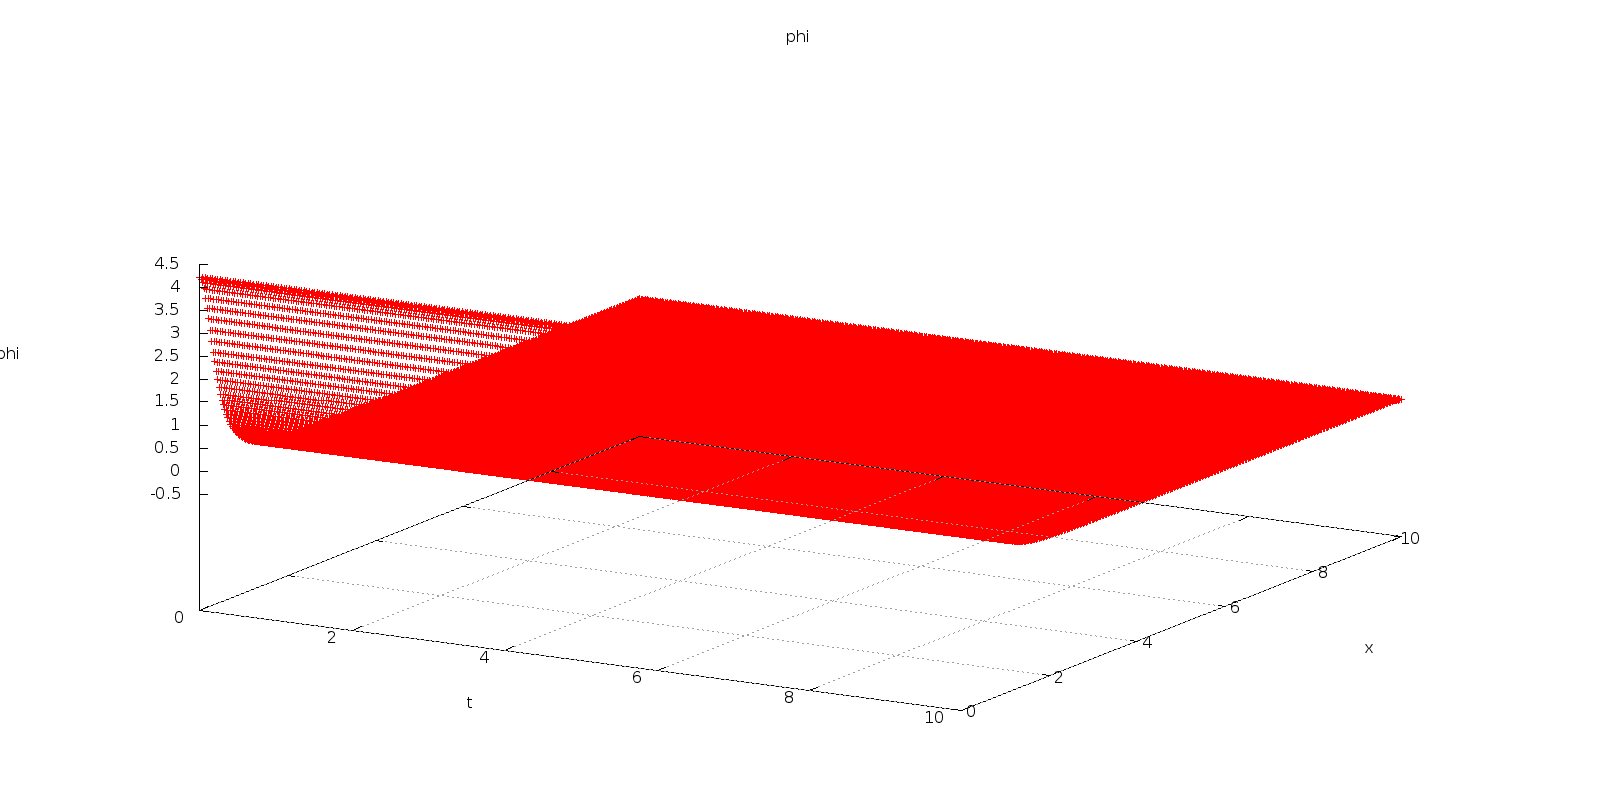
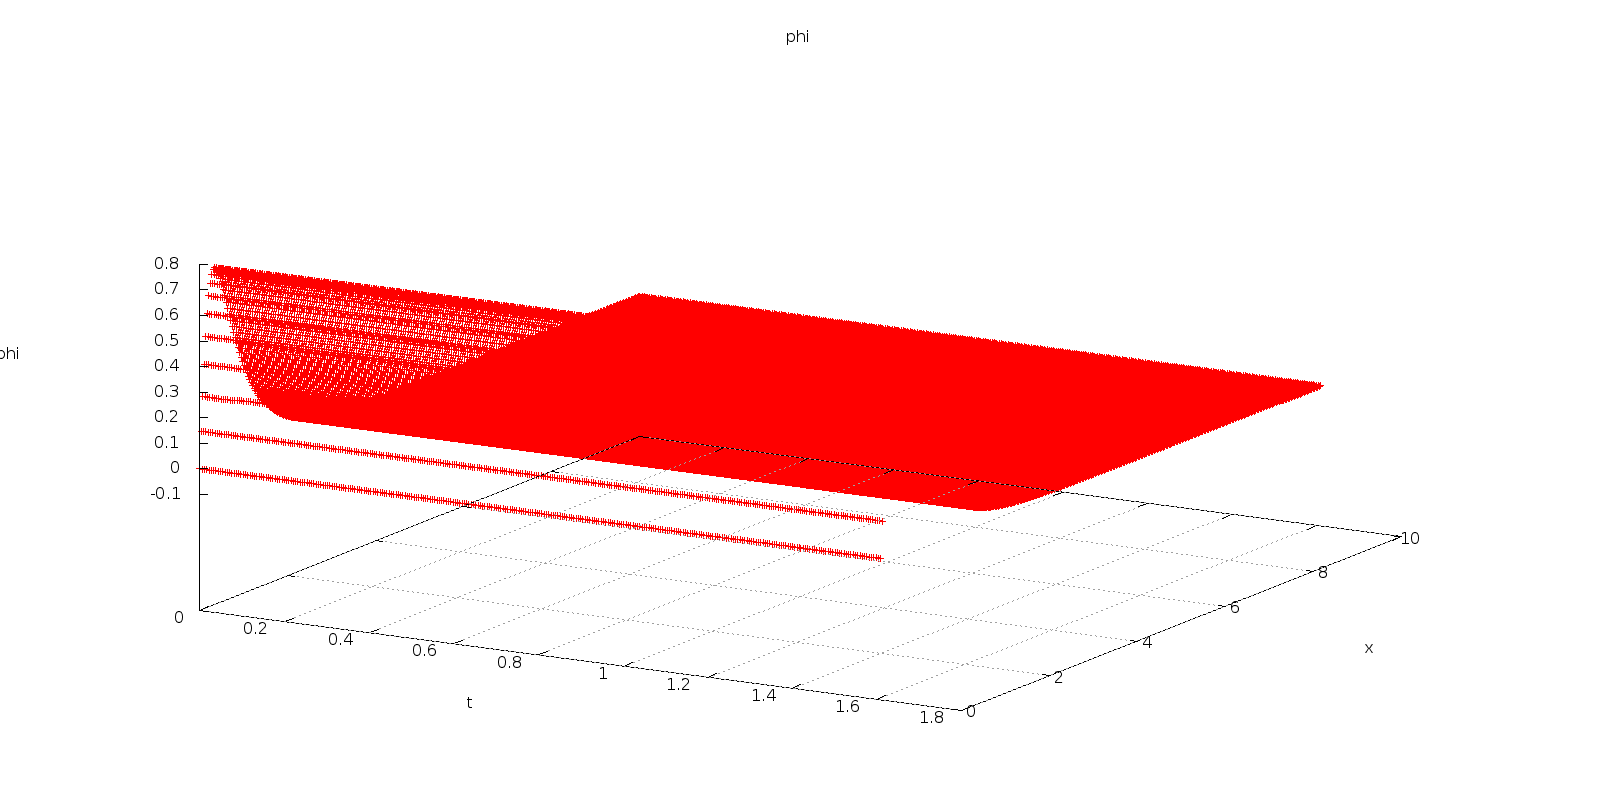
pi with V3 not so terribly bad

diff --git a/sphaleron4.cc b/sphaleron4.cc
@@ -39,19 +39,20 @@ int main(int argc, char ** argv)
 /* ---------------------------------------------------------------------------------------------
 load vectors
 ---------------------------------------------------------------------------------------------*/
-vec sphaleron = loadSimpleVectorColumn("data/sphaleron.dat",1);
-vec negEig = loadSimpleVector("data/sphaleronEigVec.dat");
-if (sphaleron.size()!=negEig.size())
+vec sphaleronFull = loadSimpleVectorColumn("data/sphaleron.dat",1);
+vec negEigFull = loadSimpleVector("data/sphaleronEigVec.dat");
+if (sphaleronFull.size()!=negEigFull.size())
 	{
-	printf("error: sphaleron.size() = %i, negEig.size() = %i\n\n",(int)sphaleron.size(),(int)negEig.size());
+	printf("error: sphaleron.size() = %i, negEig.size() = %i\n\n",(int)sphaleronFull.size(),(int)negEigFull.size());
 	return 0;
 	}
 
 /* ---------------------------------------------------------------------------------------------
 main parameters
 ---------------------------------------------------------------------------------------------*/
-unsigned int 	N=200, Nt = 200;
-double 			r0 = 1.0e-16, r1 = 10.0, t0 = 0.0, t1 = 10.0;
+unsigned int 	N= 500, Nt = 500;
+double 			r0 = 1.0e-16, r1 = 10.0, t0 = 0.0, t1 = 1.61;
+double			dr = (r1-r0)/(double)(N-1.0), dt = (t1-t0)/(double)(Nt-1.0);
 double			amp;
 if (argc>1)
 	{
@@ -66,8 +67,8 @@ else
 defining main vectors
 ---------------------------------------------------------------------------------------------*/
 vec phi(N*Nt); phi = Eigen::VectorXd::Zero(N*Nt);
-vec phi0full = sphaleron + amp*negEig;
-vec phi0 = interpolate1d(phi0full,sphaleron.size(),N);
+vec sphaleron = interpolate1d(sphaleronFull,sphaleronFull.size(),N);
+vec negEig = interpolate1d(negEigFull,sphaleronFull.size(),N);
 
 /* ---------------------------------------------------------------------------------------------
 constructing intial guess for phi
@@ -76,8 +77,9 @@ for (unsigned int k=0; k<Nt; k++)
 	{
 	for (unsigned int j=0; j<N; j++)
 		{
-		unsigned int m = k + j*Nt;
-		phi[m] = phi0[j];
+		unsigned int 	m = k + j*Nt;
+		double 			r = r0 + dr*j, t = t0 + dt*k;
+		phi[m] = r*(sphaleron[j] + amp*cos(3.91*t)*negEig[j]);
 		}
 	}
 	

diff --git a/pi.cc b/pi.cc
@@ -658,6 +658,21 @@ for (unsigned int loop=0; loop<aq.totalLoops; loop++)
 		comp pot_0 = 0.0;
 		comp pot_r = 0.0;
 		erg = Eigen::VectorXcd::Constant(NT,-ergZero);
+		
+		//testing that the potential term is working for pot3
+		if (pot[0]=='3' && false)
+			{
+			comp Vtrial = 0.0, Vcontrol = 0.0;
+			for (unsigned int j=0; j<N; j++)
+				{
+				double r = 1.0e-16 + j*a;
+				paramsV  = {r, 0.0};
+				Vcontrol += pow(p(2*j*Nb),2.0)/2.0 - pow(p(2*j*Nb),4.0)/4.0/pow(r,2.0);
+				Vtrial += V(p(2*j*Nb));
+				}
+			double potTest = pow(pow(real(Vcontrol-Vtrial),2.0) + pow(imag(Vcontrol-Vtrial),2.0),0.5);
+			cout << "potTest = " << potTest << endl;
+			}
 
 ///////////////////////////////////////////////////////////////////////////////////////////////////////////////////////////////////		
 ///////////////////////////////////////////////////////////////////////////////////////////////////////////////////////////////////
@@ -670,7 +685,7 @@ for (unsigned int loop=0; loop<aq.totalLoops; loop++)
 			long int neighPosX = neigh(j,1,1,Nb,N);
 			if (pot[0]=='3')
 				{
-				paramsV  = {1.0e-16+x*a, A};
+				paramsV  = {1.0e-16+x*a, 0.0};
 				}
 
 			
@@ -691,7 +706,7 @@ for (unsigned int loop=0; loop<aq.totalLoops; loop++)
 				}
 			else if (pot[0]=='3' && x==0)
 				{
-				DDS.insert(2*j,2*j) = -1.0/a; //dp/dx=0 at r=R
+				DDS.insert(2*j,2*j) = -1.0/a; //dp/dx=1 at r=0
 				DDS.insert(2*j,2*(j+1)) = 1.0/a;
 				DDS.insert(2*j+1,2*j+1) = -1.0/a;
 				DDS.insert(2*j+1,2*(j+1)+1) = 1.0/a;

diff --git a/sphaleron.cc b/sphaleron.cc
@@ -61,7 +61,7 @@ gsl_odeiv2_system sys = {func, jac, 4, &paramsVoid};
 double F = 1.0, dF;
 double aim = 0.0;
 double closeness = 1.0e-8;
-double r0 = 1.0e-16, r1 = 16.0;
+double r0 = 1.0e-16, r1 = 10.0;
 const unsigned int N = 1e3;
 double dr = r1-r0;
 dr /= (double)N;
